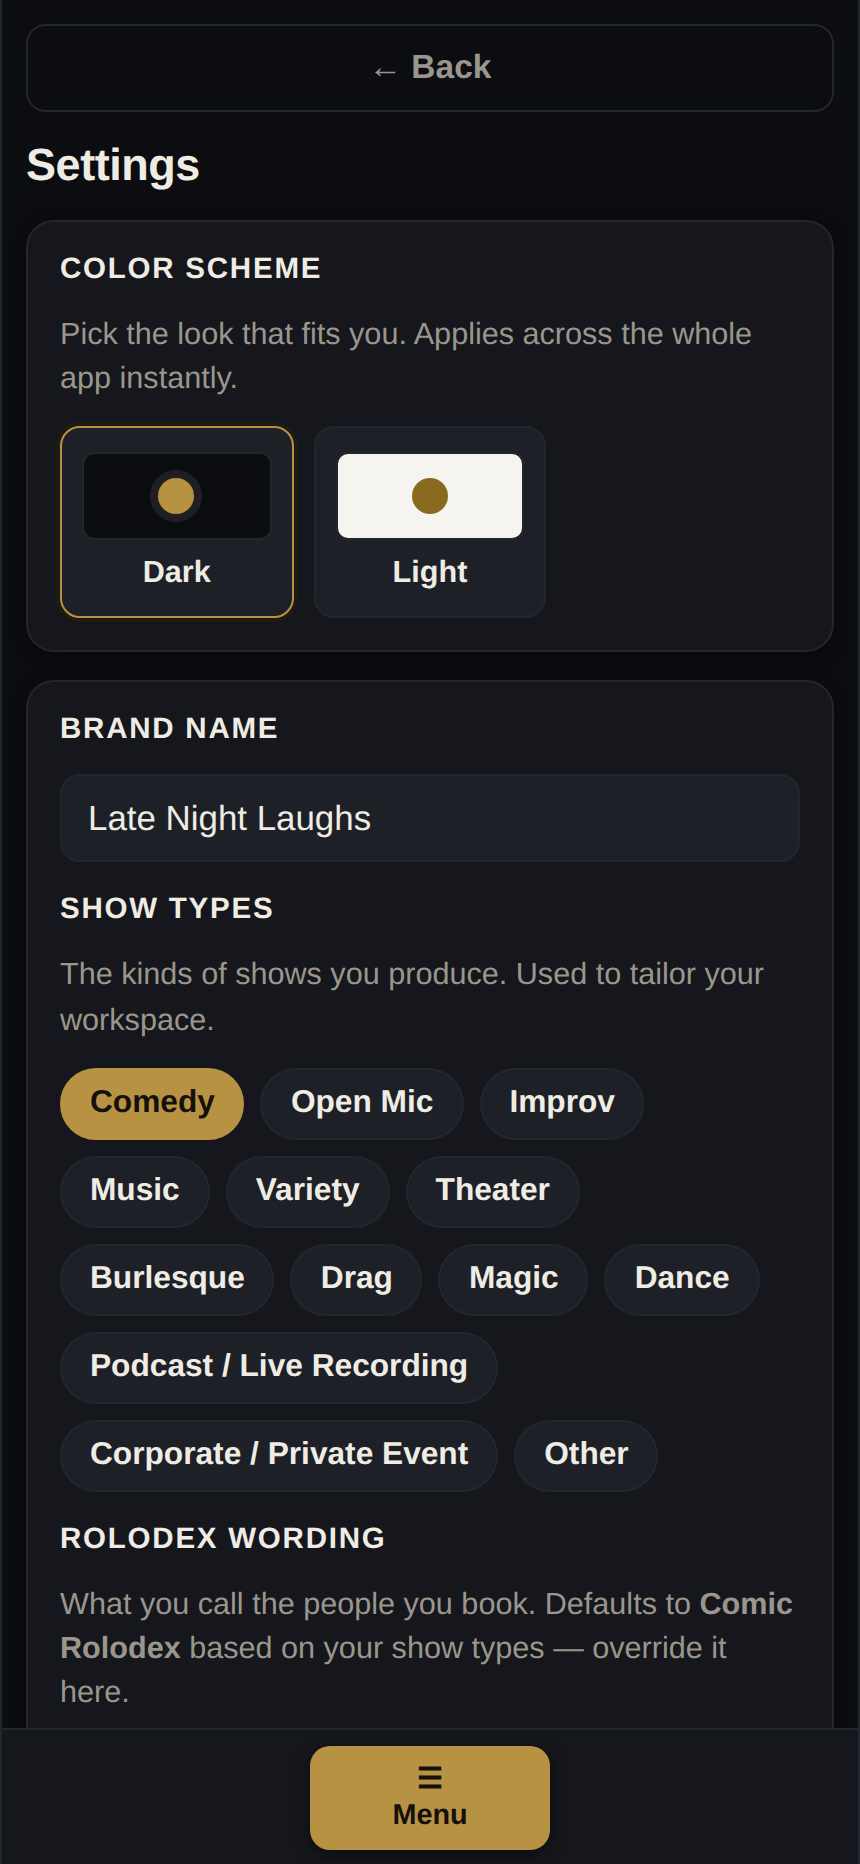
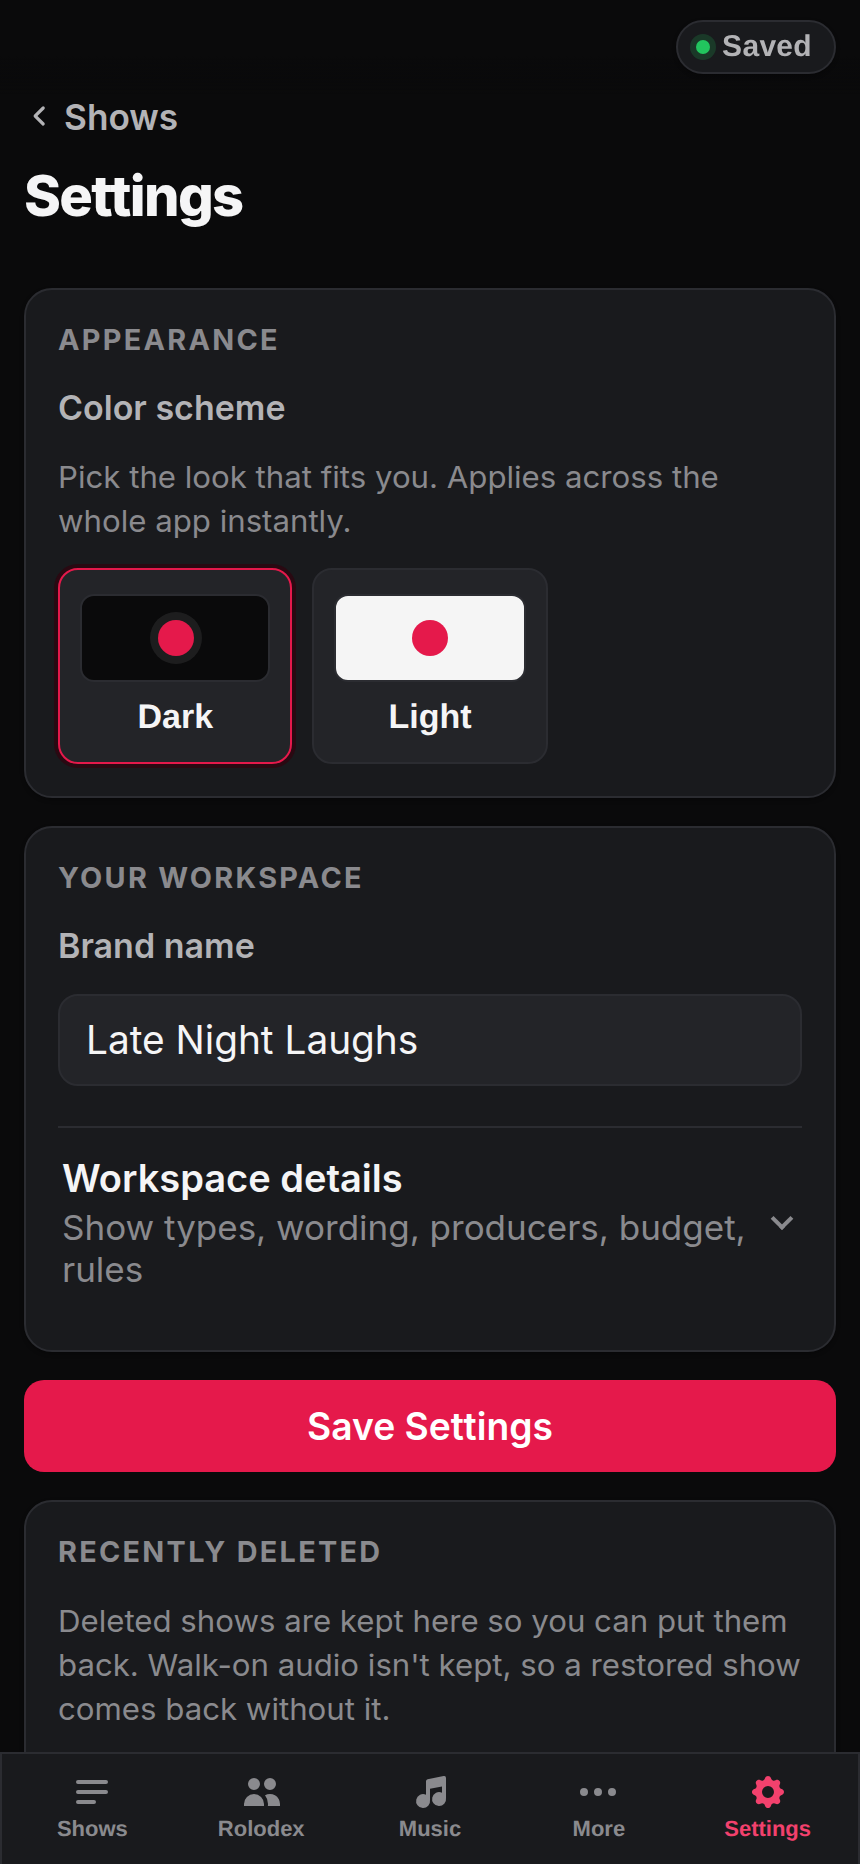
Screenshot the new work, and stop shipping pictures of an older app
The README showed contracts, the stage remote, the storage sweep and a
five-tab bar in prose and nothing else. It now shows them:

  - More, the between-shows hub;
  - a contract's status list with one signature in and one still waiting,
    each row carrying the hash of the document that was agreed to;
  - what the signer sees afterwards — no account, and a reference they keep;
  - Settings, with a paired stage remote above the storage sweep.

Capturing them meant fixing the capture script, which pointed only at the
live site with a real demo account — unusable from a clone, and not something
to run against production for a picture. It now takes MOCK_API=1 and runs
against a local build with the same in-memory backend the end-to-end suite
uses, so anyone can regenerate the set with no account, no database and no
keys. Three of its selectors had also gone stale against the UI they
photograph, which is how the images drifted in the first place.

Doing that turned up worse: most of the committed screenshots were from
August and showed a different app — a gold accent where the README describes
"a single crimson accent", a floating Menu button, no bottom navigation at
all. Screenshots that contradict the text beside them are worse than none, so
every still is regenerated.

Two are removed rather than refreshed. The animated hero is replaced by the
current Run Show still: re-recording it is worth doing and is not a
[…]

diff --git a/e2e/contracts.spec.ts b/e2e/contracts.spec.ts
@@ -1,5 +1,5 @@
 import { expect, test } from '@playwright/test';
-import { emptyState, installFakeApi } from './support/fake-api';
+import { emptyState, installFakeApi } from './support/fake-api.mjs';
 import { gotoTab, signUpAndOnboard } from './support/app';
 import { writeFileSync, mkdtempSync } from 'node:fs';
 import { tmpdir } from 'node:os';

diff --git a/e2e/navigation.spec.ts b/e2e/navigation.spec.ts
@@ -1,5 +1,5 @@
 import { expect, test } from '@playwright/test';
-import { emptyState, installFakeApi } from './support/fake-api';
+import { emptyState, installFakeApi } from './support/fake-api.mjs';
 import { gotoTab, signUpAndOnboard } from './support/app';
 
 test.describe('navigation', () => {

diff --git a/e2e/storage.spec.ts b/e2e/storage.spec.ts
@@ -1,5 +1,5 @@
 import { expect, test } from '@playwright/test';
-import { emptyState, installFakeApi } from './support/fake-api';
+import { emptyState, installFakeApi } from './support/fake-api.mjs';
 import { gotoTab, signUpAndOnboard } from './support/app';
 
 test.describe('storage', () => {

diff --git a/e2e/critical-path.spec.ts b/e2e/critical-path.spec.ts
@@ -1,5 +1,5 @@
 import { expect, test } from '@playwright/test';
-import { emptyState, installFakeApi } from './support/fake-api';
+import { emptyState, installFakeApi } from './support/fake-api.mjs';
 import { createShow, openSection, signUpAndOnboard } from './support/app';
 
 /**

diff --git a/docs/screenshots/CAPTURE.md b/docs/screenshots/CAPTURE.md
@@ -1,49 +1,70 @@
 # Screenshots
 
-Drop product screenshots in this folder and they'll appear in the main README's
-**Screenshots** section — uncomment the `<img>` block there once the files exist.
+Everything in this folder is generated by `npm run screenshots`
+([`scripts/capture-screenshots.mjs`](../../scripts/capture-screenshots.mjs)) and
+rendered in the main README's **Screenshots** section. Nothing here is captured
+by hand, so regenerating after a UI change is a single command rather than an
+afternoon.
 
-The live app is at **https://icanrunashow.com** (or use a PR preview). It's a
-phone-first, single-column app, so capture the in-app screens at a phone width
-(~430px) for the most representative look. Light is the default theme; Dark is
-available in Settings.
+## Regenerating
 
-Suggested shots (PNG, keep each under ~500 KB):
-
-| Filename | What to capture |
-| --- | --- |
-| `shows.png` | The shows dashboard — bento summary tiles, search/filter, a few show cards |
-| `show-detail.png` | A show's detail page — host slot, status, the section accordion |
-| `run-show.png` | Run Show full-screen live mode — timer, on-stage card, controls |
-| `viewer.png` | The public read-only viewer link — live on-stage / up-next (optional) |
-
-Tips:
-- Use a seeded demo account so the screens look populated.
-- Crop to the app content; hide any personal data.
-- The filenames above are what the README's commented `<img>` block expects —
-  once `shows.png`, `show-detail.png`, and `run-show.png` are here, just remove
-  the `<!-- -->` around that block.
-
-## Automated capture
-
-`scripts/capture-screenshots.mjs` drives the app with Playwright: it logs in
-(creating the account + onboarding if it doesn't exist), seeds a demo show with
-performers and a run-of-show when the workspace is empty, then captures the
-screens at phone width into this folder.
-
-**Locally:**
+The reliable way, and the one the committed images were made with — no account,
+no database, no API keys. It runs against a local production build with the same
+in-memory backend the end-to-end suite uses:
 
 ```bash
-npm i -D playwright && npx playwright install chromium
-DEMO_USER=demo DEMO_PASS=demo1234 APP_URL=https://icanrunashow.com npm run screenshots
+npm run build
+npx vite preview --port 4173 &
+MOCK_API=1 APP_URL=http://localhost:4173 npm run screenshots
 ```
 
-Use a **throwaway demo account** — never a real one (the seed step assumes it can
-populate an empty workspace). Set `HEADLESS=false` to watch it run.
+Against the live app instead, with a throwaway demo account:
 
-**Via GitHub Actions:** add repo secrets `DEMO_USER` and `DEMO_PASS`, then run the
-**Capture screenshots** workflow (Actions tab → Run workflow). It captures the
-shots, uploads them as an artifact, and pushes them to a `chore/screenshots-*`
-branch you can open a PR from.
+```bash
+DEMO_USER=demo DEMO_PASS=… APP_URL=https://icanrunashow.com npm run screenshots
+```
 
-After the PNGs land here, uncomment the `<img>` block in the main README.
+Never point `DEMO_USER` / `DEMO_PASS` at a real account — the seed step assumes
+it may populate an empty workspace.
+
+### Environment
+
+| Variable | Default | Purpose |
+| --- | --- | --- |
+| `APP_URL` | `https://icanrunashow.com` | Target app |
+| `MOCK_API` | unset | `1` to use the in-memory backend — no account or database |
+| `OUT_DIR` | `docs/screenshots` | Where the PNGs land |
+| `HEADLESS` | `true` | `false` to watch it run |
+| `PW_CHROMIUM_PATH` | unset | A Chromium already on disk, for sandboxes that cannot download Playwright's pinned build |
+
+## What gets captured
+
+Everything is shot at 430×932 with `deviceScaleFactor: 2`, so the images are @2x
+and the app is in the phone layout it is designed around.
+
+| File | Screen |
+| --- | --- |
+| `shows.png` | The shows dashboard |
+| `show-detail.png` | A show's page — summary tiles and the section accordion |
+| `schedule.png` | The run-of-show builder |
+| `performer-profile.png` | A performer's profile |
+| `run-show.png` | Full-screen live mode |
+| `rolodex.png` | The Rolodex, with its show-type-aware wording |
+| `settings.png` | Settings — theme, brand, and the folded workspace details |
+| `more.png` | The More hub |
+| `contracts.png` | A contract's status list: one signed, one waiting |
+| `signing-receipt.png` | What the signer sees once they have signed |
+| `stage-remote.png` | Settings — a paired stage remote, and the storage sweep |
+
+## Notes
+
+- **`signing-receipt.png` is an element shot, not a full page.** Headless
+  Chromium does not reliably paint a PDF inside an `<object>`, and a blank
+  document pane above the receipt would say something untrue about the app.
+- **There is no animated demo.** The README's hero used to be a GIF, dropped
+  when it went stale — it still showed a gold accent and a navigation bar the
+  app no longer has. Re-recording one is a genuine improvement; a screenshot of
+  an app that no longer exists is not.
+- **There is no viewer-link shot.** Capturing it needs the show's viewer token,
+  which only exists once the live screen has published, and automating that was
+  not worth the coupling. Worth adding if the flow settles.

diff --git a/README.md b/README.md
@@ -47,10 +47,10 @@
 Try it live at **[icanrunashow.com](https://icanrunashow.com)**. These are generated with `npm run screenshots` (see [docs/screenshots/CAPTURE.md](docs/screenshots/CAPTURE.md)).
 
 <p align="center">
-  <img src="docs/screenshots/run-show.gif" width="280" alt="Run Show live mode — animated demo" />
+  <img src="docs/screenshots/run-show.png" width="280" alt="Run Show live mode" />
 </p>
 <p align="center">
-  <sub><b>Run Show</b> live mode — per-cue countdown, on-time drift, and advancing through cues</sub>
+  <sub><b>Run Show</b> live mode — per-cue countdown, on-time drift, and a soundboard button per performer</sub>
 </p>
 
 <p align="center">
@@ -72,11 +72,19 @@ Try it live at **[icanrunashow.com](https://icanrunashow.com)**. These are gener
 </p>
 
 <p align="center">
-  <img src="docs/screenshots/run-show.png" width="32%" alt="Run Show live mode" />
-  <img src="docs/screenshots/viewer.png" width="32%" alt="Public viewer link" />
+  <img src="docs/screenshots/more.png" width="32%" alt="More — the between-shows pages" />
+  <img src="docs/screenshots/contracts.png" width="32%" alt="Contracts — who has signed and who has not" />
+  <img src="docs/screenshots/stage-remote.png" width="32%" alt="Settings — stage remote and storage" />
 </p>
 <p align="center">
-  <sub><b>Run Show</b> — full-screen live mode &nbsp;·&nbsp; <b>Public viewer</b> — live lineup / on-stage link</sub>
+  <sub><b>More</b> — the between-shows pages, off a five-tab bar &nbsp;·&nbsp; <b>Contracts</b> — one signed, one still waiting, each with the hash of the document agreed to &nbsp;·&nbsp; <b>Stage remote &amp; storage</b> — a paired clicker, and the sweep for unreachable uploads</sub>
+</p>
+
+<p align="center">
+  <img src="docs/screenshots/signing-receipt.png" width="46%" alt="What the signer sees once they have signed" />
+</p>
+<p align="center">
+  <sub>What the <b>signer</b> sees — no account, no app, and a document reference they can keep. The producer's list flips to signed on its own.</sub>
 </p>
 
 ---
